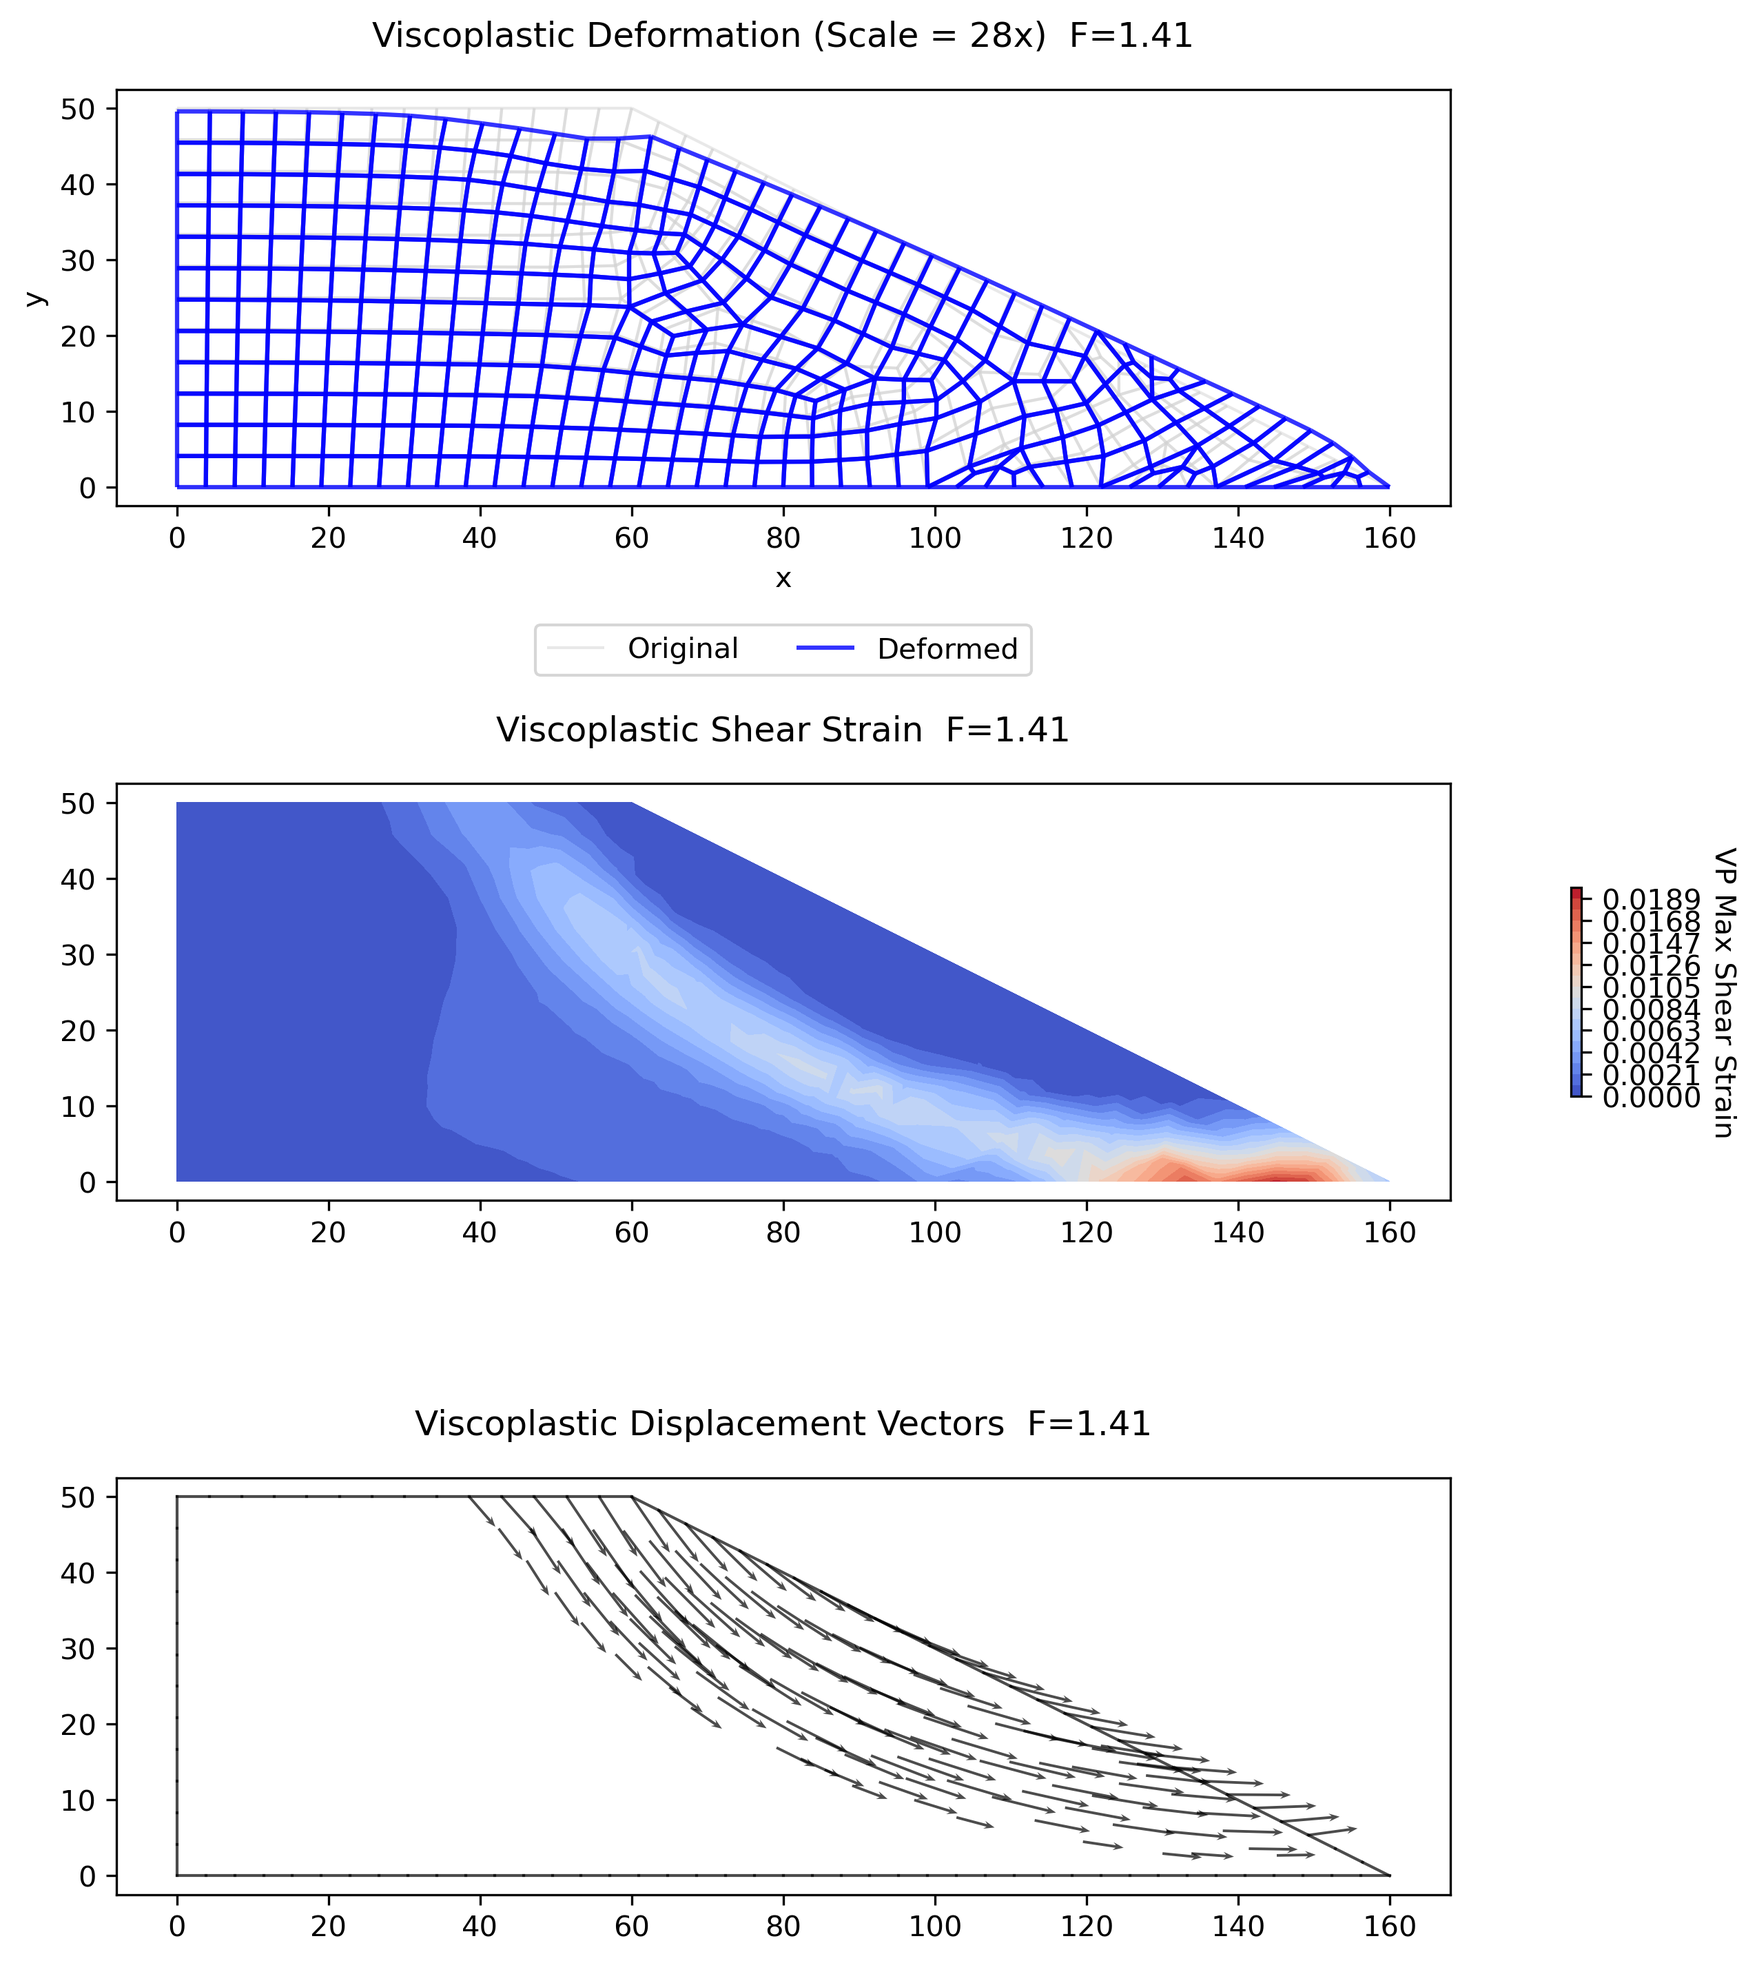
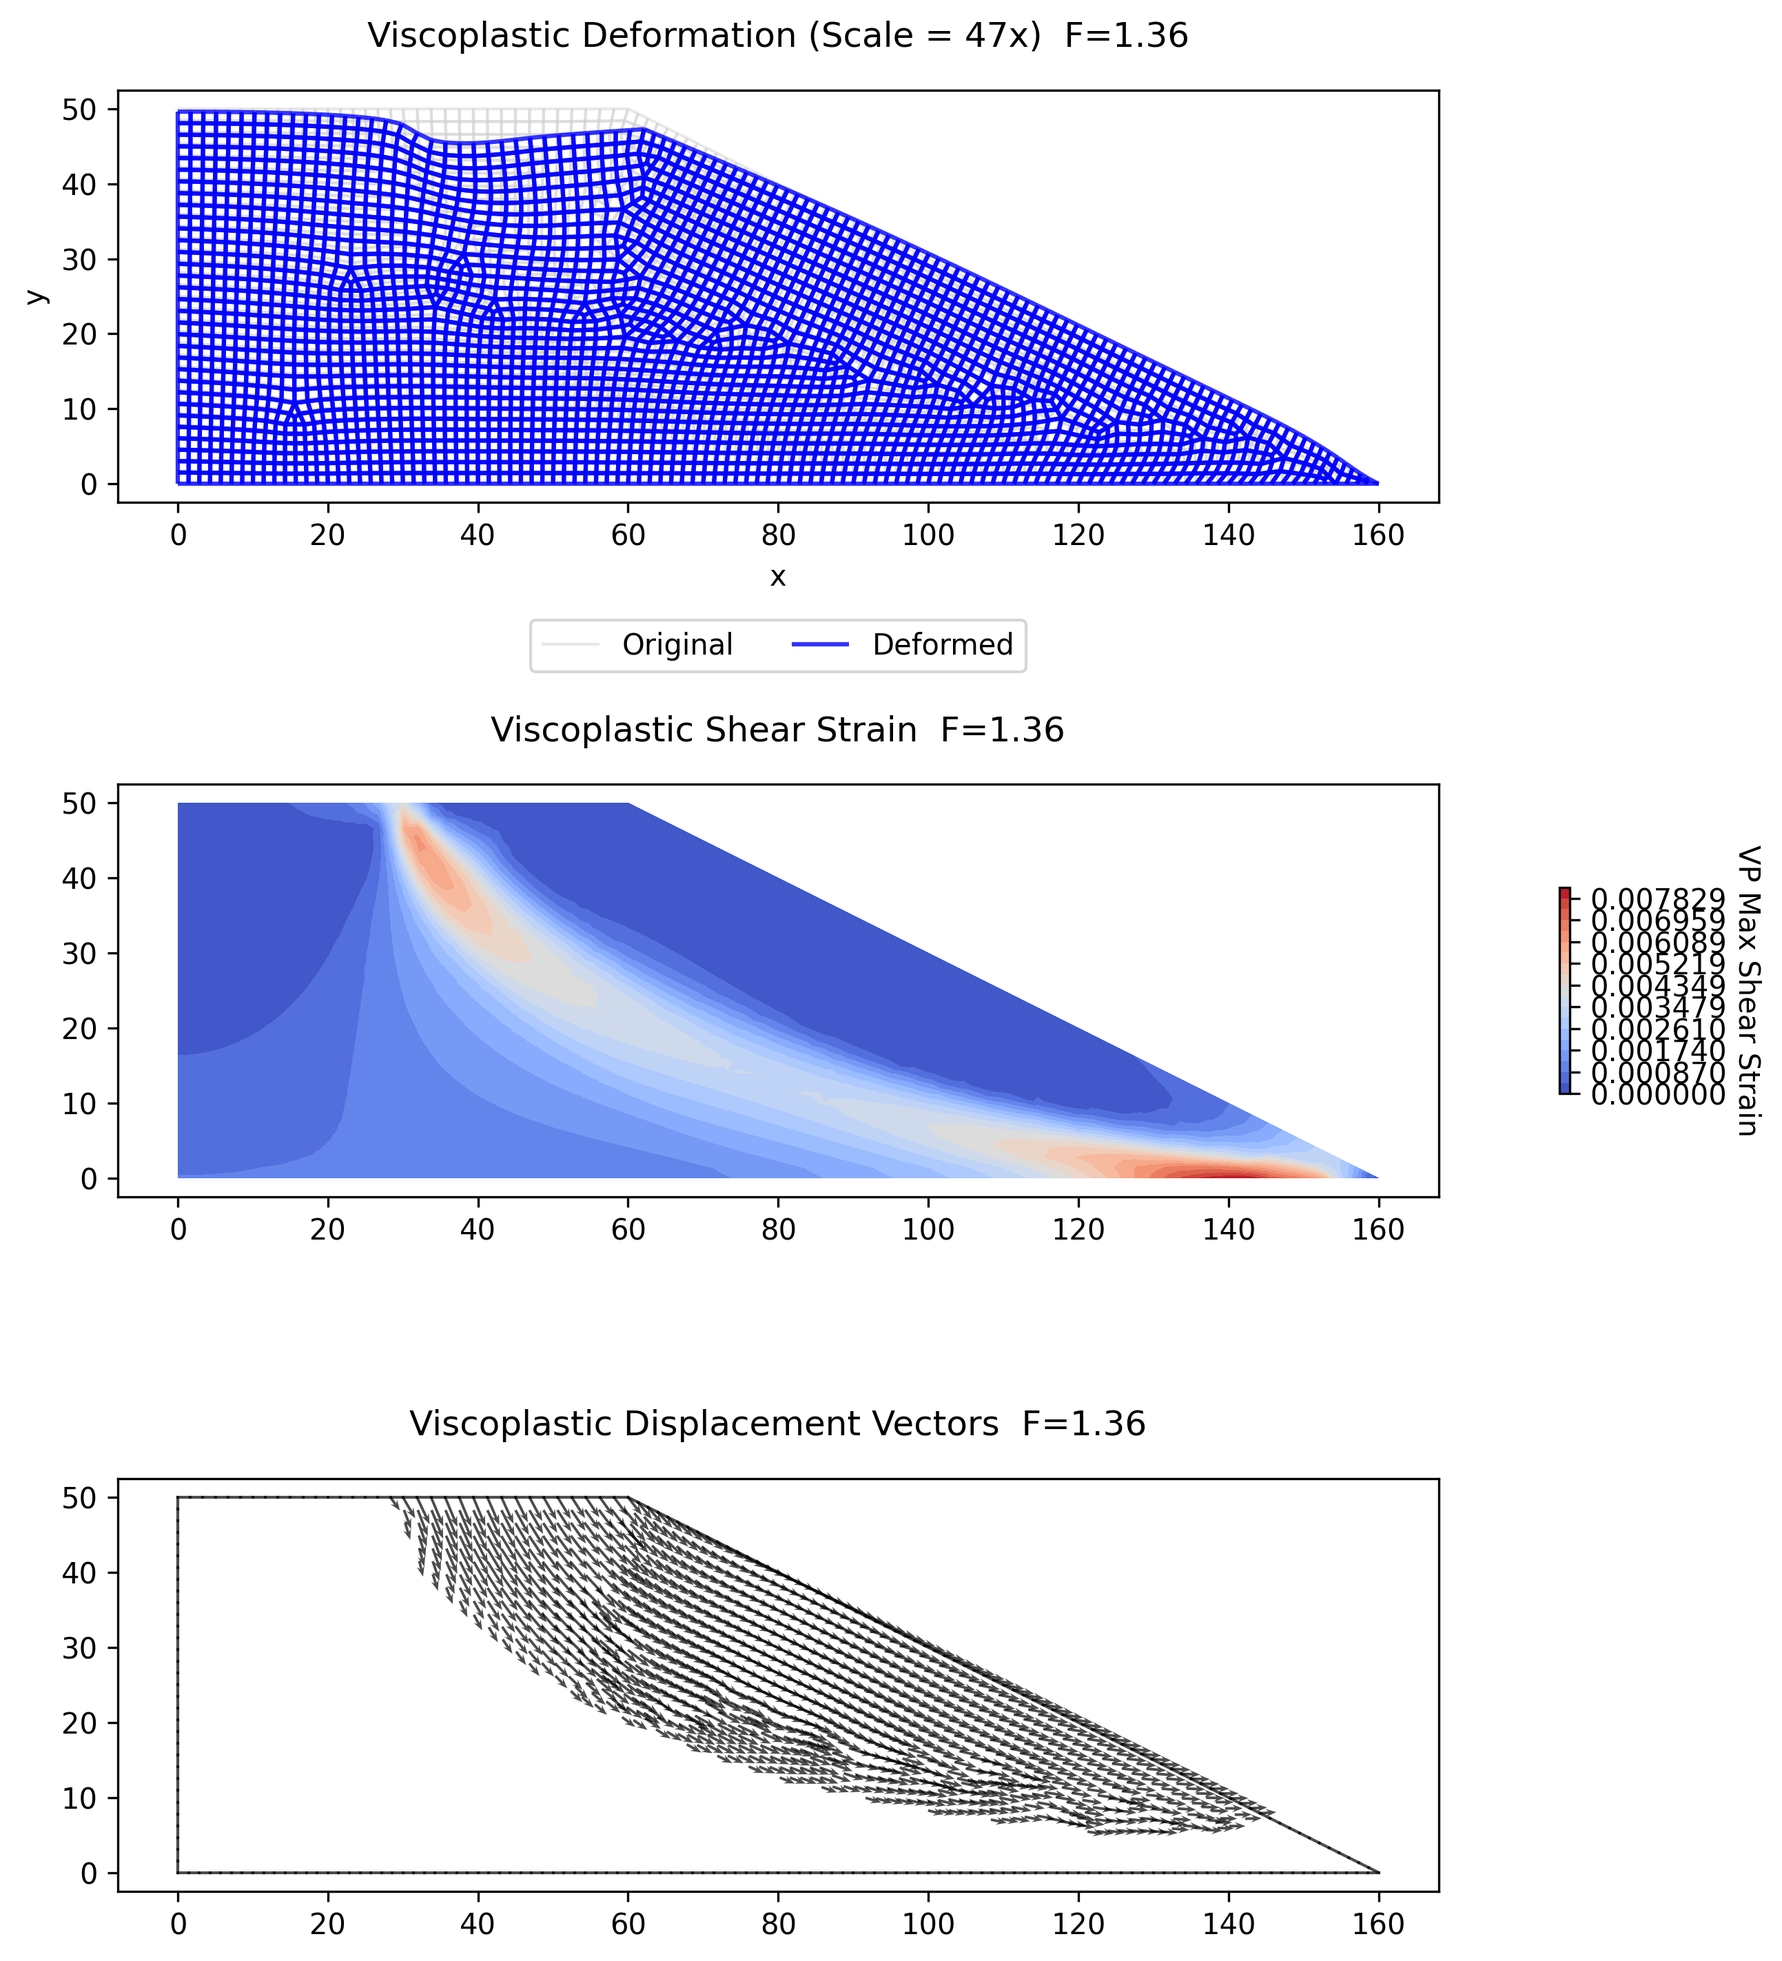
Fix distributed load to nodal force conversion in FEM
The tributary length calculation used np.mean(segment_lengths) of the
  load-line definition segments, which gave every mesh node the full
  resultant force instead of distributing it. With N nodes on the load
  line, total applied force was N× too high, and refining the mesh made
  the factor of safety drop (more nodes = more total force).

  Fixed with a two-pass approach: collect all nodes on the load line,
  sort by position, then compute tributary length as half-distance to
  each neighbor. Also fixed add_dload_points_to_polygons to read the
  correct slope_data keys (dloads/dloads2 vs distributed_loads), and
  disabled adding load points to polygon edges to avoid gmsh local
  refinement. Updated force arrow display in plot_fem.py (thinner lines,
  offset arrowheads).

diff --git a/xslope/fem.py b/xslope/fem.py
@@ -333,68 +333,81 @@ def build_fem_data(slope_data, mesh=None):
         distributed_loads.extend(slope_data["distributed_loads"])
     
     if distributed_loads:
-        tolerance = 1e-1  # Tolerance for finding nodes on load lines (increased for better matching)
-        
+        tolerance = 1e-1  # Tolerance for finding nodes on load lines
+
         for load_idx, load_line in enumerate(distributed_loads):
             # Handle different possible data structures
             if isinstance(load_line, dict) and "coords" in load_line:
-                # Expected format: {"coords": [...], "loads": [...]}
                 load_coords = load_line["coords"]
                 load_values = load_line["loads"]
             elif isinstance(load_line, list):
-                # Format from fileio: list of dicts with X, Y, Normal keys
                 load_coords = [(pt["X"], pt["Y"]) for pt in load_line]
                 load_values = [pt["Normal"] for pt in load_line]
             else:
                 continue
-            
+
             if len(load_coords) < 2 or len(load_values) < 2:
                 continue
-                
+
             load_linestring = LineString(load_coords)
-            nodes_found = 0
-            
-            # Find nodes that lie on or near the load line
+            load_total_length = load_linestring.length
+
+            # Pass 1: Collect all nodes on the load line with their projected distances
+            load_nodes = []  # list of (node_index, projected_distance)
             for i, node in enumerate(nodes):
                 node_point = Point(node)
-                distance_to_line = load_linestring.distance(node_point)
-                
-                if distance_to_line <= tolerance:
-                    # This node is on the load line
-                    nodes_found += 1
-                    # Find position along line and interpolate load
-                    projected_distance = load_linestring.project(node_point)
-                    
-                    # Get segments and interpolate load value
-                    segment_lengths = []
-                    cumulative_length = 0
-                    
-                    for j in range(len(load_coords) - 1):
-                        seg_length = np.linalg.norm(np.array(load_coords[j+1]) - np.array(load_coords[j]))
-                        segment_lengths.append(seg_length)
-                        cumulative_length += seg_length
-                        
-                        if projected_distance <= cumulative_length:
-                            # Interpolate within this segment
-                            local_distance = projected_distance - (cumulative_length - seg_length)
-                            ratio = local_distance / seg_length if seg_length > 0 else 0
-                            
-                            load_at_node = load_values[j] * (1 - ratio) + load_values[j+1] * ratio
-                            break
+                if load_linestring.distance(node_point) <= tolerance:
+                    proj_dist = load_linestring.project(node_point)
+                    load_nodes.append((i, proj_dist))
+
+            if not load_nodes:
+                continue
+
+            # Sort by projected distance along the load line
+            load_nodes.sort(key=lambda x: x[1])
+
+            # Pass 2: Compute tributary length and load for each node
+            n_load_nodes = len(load_nodes)
+            for k, (node_idx, proj_dist) in enumerate(load_nodes):
+                # Tributary length: half-distance to each neighbor
+                if n_load_nodes == 1:
+                    trib_length = load_total_length
+                else:
+                    if k == 0:
+                        # First node: half-distance to next node
+                        trib_length = (load_nodes[k+1][1] - proj_dist) / 2.0
+                    elif k == n_load_nodes - 1:
+                        # Last node: half-distance to previous node
+                        trib_length = (proj_dist - load_nodes[k-1][1]) / 2.0
                     else:
-                        # Use last load value if beyond end
-                        load_at_node = load_values[-1]
-                    
-                    # Convert to nodal force using tributary length
-                    # For simplicity, use average of adjacent segment lengths
-                    tributary_length = np.mean(segment_lengths) if segment_lengths else 1.0
-                    nodal_force_magnitude = load_at_node * tributary_length
-                    
-                    # Determine direction (perpendicular to ground surface)
-                    # For now, assume vertical loading
-                    bc_type[i] = 4  # Applied force
-                    bc_values[i, 0] = 0.0  # No horizontal component
-                    bc_values[i, 1] = -nodal_force_magnitude  # Downward
+                        # Interior node: half-distance to each neighbor
+                        trib_length = (load_nodes[k+1][1] - load_nodes[k-1][1]) / 2.0
+
+                # Interpolate load value at this position along the load line
+                cumulative_length = 0
+                load_at_node = load_values[-1]  # default to last value
+                for j in range(len(load_coords) - 1):
+                    seg_length = np.linalg.norm(np.array(load_coords[j+1]) - np.array(load_coords[j]))
+                    cumulative_length += seg_length
+                    if proj_dist <= cumulative_length:
+                        local_distance = proj_dist - (cumulative_length - seg_length)
+                        ratio = local_distance / seg_length if seg_length > 0 else 0
+                        load_at_node = load_values[j] * (1 - ratio) + load_values[j+1] * ratio
+                        break
+
+                nodal_force_magnitude = load_at_node * trib_length
+
+                # Apply as vertical load
+                bc_type[node_idx] = 4  # Applied force
+                bc_values[node_idx, 0] = 0.0
+                bc_values[node_idx, 1] = -nodal_force_magnitude
+
+            # Diagnostic: verify total applied force
+            total_force = sum(abs(bc_values[ni, 1]) for ni, _ in load_nodes)
+            expected_force = np.mean(load_values) * load_total_length
+            print(f"  Distributed load {load_idx}: {n_load_nodes} nodes, "
+                  f"total force = {total_force:.1f}, expected ~{expected_force:.1f}, "
+                  f"sum(trib) = {total_force/np.mean(load_values):.2f} vs line length = {load_total_length:.2f}")
             
     
     # Get other parameters

diff --git a/xslope/plot_fem.py b/xslope/plot_fem.py
@@ -337,28 +337,38 @@ def _plot_boundary_conditions(ax, nodes, bc_type, bc_values, legend_handles, bc_
         for node_idx in force_nodes:
             fx, fy = bc_values[node_idx]
             force_magnitudes.append(np.sqrt(fx**2 + fy**2))
-        
+
         if force_magnitudes:
             max_force = max(force_magnitudes)
             if max_force > 0:
-                scale = symbol_size * 3 / max_force  # Scale arrows to reasonable size
-                
+                scale = symbol_size * 3 / max_force
+
+                gap = symbol_size * 0.5  # gap between arrowhead and node
+
                 for node_idx in force_nodes:
                     x, y = nodes[node_idx]
                     fx, fy = bc_values[node_idx]
-                    
-                    # Scale force components
                     scaled_fx = fx * scale
                     scaled_fy = fy * scale
-                    
-                    # Draw arrow from force end to node (so arrow points to node)
-                    ax.annotate('', xy=(x, y), xytext=(x - scaled_fx, y - scaled_fy),
-                               arrowprops=dict(arrowstyle='->', color='green', lw=2))
-        
+
+                    # Arrow direction unit vector (from tail toward node)
+                    mag = np.sqrt(scaled_fx**2 + scaled_fy**2)
+                    if mag == 0:
+                        continue
+                    ux, uy = scaled_fx / mag, scaled_fy / mag
+
+                    # Tail and tip (tip stops short of node by gap)
+                    tail_x = x - scaled_fx
+                    tail_y = y - scaled_fy
+                    tip_x = x - ux * gap
+                    tip_y = y - uy * gap
+                    ax.plot([tail_x, tip_x], [tail_y, tip_y], color='green', lw=1.2)
+                    ax.plot(tip_x, tip_y, marker='v', color='green', markersize=3)
+
         # Add to legend
         legend_handles.append(
-            plt.Line2D([0], [0], marker='>', color='green', linestyle='-', 
-                      markersize=8, label='Applied Force (bc_type=4)')
+            plt.Line2D([0], [0], marker='v', color='green', linestyle='-',
+                      markersize=5, linewidth=0.8, label='Applied Force (bc_type=4)')
         )
 
 def plot_fem_results(fem_data, solution, plot_type=['deformation', 'shear_strain', 'displace_vector'], deform_scale=None, 

diff --git a/xslope/mesh.py b/xslope/mesh.py
@@ -1717,8 +1717,8 @@ def build_polygons(slope_data, reinf_lines=None, tol = 0.000001, debug=False):
             "mat_id": mat_id
         })
     
-    # Add distributed load points to polygon edges if coincident
-    polygons = add_dload_points_to_polygons(polygons, slope_data)
+    # Distributed load points are handled by the FEM load partitioning in fem.py
+    # (not added to polygon edges, which would split curves and cause local refinement)
     
     # Add intersection points with reinforcement lines if provided
     if reinf_lines is not None:
@@ -1743,13 +1743,18 @@ def add_dload_points_to_polygons(polygons, slope_data):
     
     # Collect distributed load points to check
     points_to_check = []
-    
-    # Add distributed load points
-    distributed_loads = slope_data.get('distributed_loads', [])
-    for load in distributed_loads:
-        if 'xy' in load:
-            for point in load['xy']:
-                points_to_check.append(point)
+
+    # Add distributed load points from 'dloads' and 'dloads2' keys
+    # Each is a list of load lines; each load line is a list of dicts with X, Y, Normal
+    for key in ('dloads', 'dloads2'):
+        for load_line in slope_data.get(key, []):
+            if isinstance(load_line, list):
+                for pt in load_line:
+                    if isinstance(pt, dict) and 'X' in pt and 'Y' in pt:
+                        points_to_check.append((pt['X'], pt['Y']))
+            elif isinstance(load_line, dict) and 'xy' in load_line:
+                for point in load_line['xy']:
+                    points_to_check.append(point)
     
     if not points_to_check:
         return polygons

diff --git a/main_fem.py b/main_fem.py
@@ -5,13 +5,13 @@ from xslope.plot import plot_inputs
 from xslope.plot_fem import plot_fem_results, plot_fem_data
 
 # Load Griffiths & Lane (1999) Example 1: homogeneous slope, c/γH=0.05, φ=20°
-slope_data = load_slope_data("docs/inputs/slope/xslope_griffiths1.xlsx")
+slope_data = load_slope_data("docs/fem/files/xslope_griffiths1_load.xlsx")
 
 plot_inputs(slope_data, mode='fem', tab_loc='top')
 
 # Build mesh
 polygons = build_polygons(slope_data)
-mesh = build_mesh_from_polygons(polygons, target_size=5, element_type='quad8')
+mesh = build_mesh_from_polygons(polygons, target_size=2, element_type='quad8')
 
 # Build FEM data
 fem_data = build_fem_data(slope_data, mesh)
@@ -19,13 +19,16 @@ plot_fem_data(fem_data, figsize=(14, 7), show_nodes=True, show_bc=True,
               label_elements=False, label_nodes=False)
 
 analysis_type = "single" # @param ["single","ssrm"]
+F = 1.36
+F_min=0.5
+F_max=1.5
 
 if analysis_type == "single":
-    solution = solve_fem(fem_data, F=1.406, debug_level=2)
+    solution = solve_fem(fem_data, F=F, debug_level=2)
     print(f"  Converged: {solution['converged']}, Iterations: {solution['iterations']}")
     plot_fem_results(fem_data, solution, plot_type=['deformation', 'shear_strain', 'displace_vector'], save_png=True)
 elif analysis_type == "ssrm":
-    result = solve_ssrm(fem_data, F_min=1.0, F_max=2.0, tolerance=0.05, debug_level=1)
+    result = solve_ssrm(fem_data, F_min=F_min, F_max=F_max, tolerance=0.05, debug_level=1)
     if result.get("converged", False):
         print(f"\nFactor of Safety: {result['FS']:.2f}")
         print(f"Method: {result.get('method', 'Unknown')}")

diff --git a/main_lem.py b/main_lem.py
@@ -7,7 +7,7 @@ from xslope.search import circular_search, noncircular_search
 from xslope.slice import generate_slices
 from xslope.advanced import reliability as reliability_analysis
 
-slope_data = load_slope_data("docs/lem/files/xslope_reinforce_hw.xlsx")
+slope_data = load_slope_data("docs/fem/files/xslope_griffiths1_load.xlsx")
 plot_inputs(slope_data, mode='lem', save_png=True)
 
 method = "spencer" # @param ["oms","bishop","janbu","corps_engineers","lowe_karafiath","spencer"]
